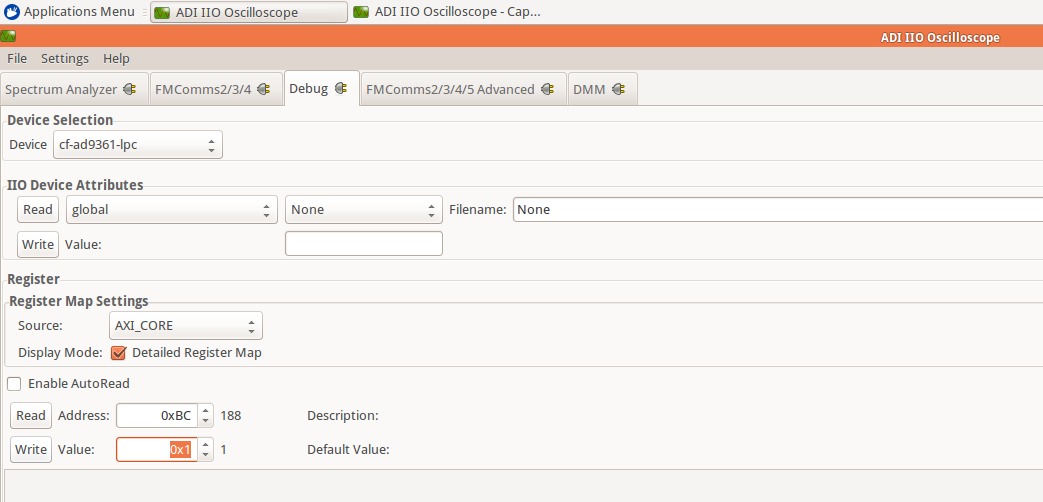
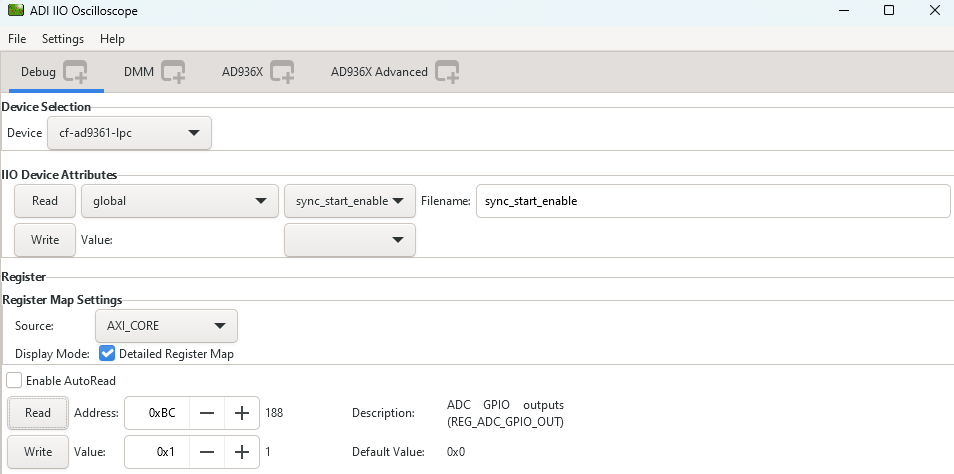
doocs/projects/fmcomms2: TODO notes
Updating the code according to TODO notes from Iulia:
Clarification some commands and update some links.
Updating steps for debug in iio osciloscope.
Updating images in the documentation with the latest version of iio
osciloscope. (v0.18-main)

diff --git a/docs/projects/fmcomms2/fir_filter.rst b/docs/projects/fmcomms2/fir_filter.rst
@@ -7,7 +7,7 @@ Overview
 -------------------------------------------------------------------------------
 
 This wiki page describes how to add a custom processing module into the
-:git-hdl:`FMCOMMS2 <EVAL-AD-FMCOMMS2-EBZ>`'s TX and/or RX data path.
+:git-hdl:`FMCOMMS2 <projects/fmcomms2>`'s TX and/or RX data path.
 
 In this example, the custom modules are going to be some digital FIR filters,
 to decimate and interpolate the incoming and outcoming data stream.
@@ -150,13 +150,11 @@ Adding FIR filters in FMCOMMS2 design and building the HDL
 
 The design is obtain by simply sourcing the base FMCOMMS2 block design.
 
-# TODO: clarify the commands below
-
 .. code-block:: tcl
 
    set project_dir [pwd]
    cd $ad_hdl_dir/projects/fmcomms2/zc706/
-   source system_bd.tcl
+   source system_project.tcl
    cd $project_dir
 
 At this point, FMCOMMS2 reference design's TX data path has the following
@@ -329,12 +327,13 @@ when interpolation is activated and by the axi_ad9361_core when interpolation
 is not active. In the reference design, the data flow is controlled by the
 ad9631_core.
 
-We must connect the upack_core's dma_xfer_in port to VCC so that the UPACK may
-transmit the valid and enable signals from one entity to another.
+..
+   We must connect the upack_core's dma_xfer_in port to VCC so that the UPACK may
+   transmit the valid and enable signals from one entity to another.
 
-.. code-block:: tcl
+   .. code-block:: tcl
 
-   ad_connect util_ad9361_dac_upack/dma_xfer_in VCC
+      ad_connect util_ad9361_dac_upack/dma_xfer_in VCC
 
 At this moment, the Interpolation filters are completely integrated into the
 design and the data path should look like the one in the figure below.
@@ -366,7 +365,7 @@ Connecting the FIR decimation filters on the Rx side
    connect_bd_net [get_bd_pins util_ad9361_adc_fifo/dout_data_2] [get_bd_pins fir_decimator_1/channel_0]
    connect_bd_net [get_bd_pins util_ad9361_adc_fifo/dout_data_3] [get_bd_pins fir_decimator_1/channel_1]
    connect_bd_net [get_bd_pins util_ad9361_adc_fifo/dout_valid_2] [get_bd_pins fir_decimator_1/s_axis_data_tvalid]
-   connect_bd_net [get_bd_pins util_ad9361_dac_pack/fifo_rd_en] [get_bd_pins fir_decimator_1/m_axis_data_tvalid]
+   connect_bd_net [get_bd_pins util_ad9361_adc_pack/fifo_wr_en] [get_bd_pins fir_decimator_1/m_axis_data_tvalid]
    connect_bd_net [get_bd_pins util_ad9361_adc_pack/enable_2 ] [get_bd_pins util_ad9361_adc_fifo/dout_enable_2]
    connect_bd_net [get_bd_pins util_ad9361_adc_pack/enable_3 ] [get_bd_pins util_ad9361_adc_fifo/dout_enable_3]
    connect_bd_net [get_bd_pins pack1_slice_0/Din] [get_bd_pins fir_decimator_1/m_axis_data_tdata]
@@ -405,6 +404,11 @@ Base system functionality
 For simply testing the FMCOMMS2 with filter design, we loop-back the data from
 TX to RX for each channel with a SMA to SMA cable.
 
+.. image:: fmcomms2_txrx_loopback.jpg
+   :width: 1000
+   :align: center
+   :alt: FMCOMMS2_TXRX_LOOPBACK
+
 When first booting up the design, none of the filters will be active.
 For the beginning make sure you have the same **LO frequency for RX and TX**,
 as in the picture below.
@@ -416,8 +420,9 @@ the FIR interpolation filters. On the decimation side, data will always pass
 through decimation filters.
 
 Below are the settings for FMCOMMS2 and the data plot in FFT and Time Domain
-for the "sinewave_0.6.mat". As a functionality example, only one of the two
-channels will be enabled.
+for the "sinewave_0.6.mat". The file "sinewave_0.6.mat" can be found under
+the installation folder, in **lib\osc\waveforms**. As a functionality example,
+only one of the two channels will be enabled.
 
 **FFT Domain**
 
@@ -468,15 +473,11 @@ Activating Filters
 Interpolation filter
 ~~~~~~~~~~~~~~~~~~~~~~~~~~~~~~~~~~~~~~~~~~~~~~~~~~~~~~~~~~~~~~~~~~~~~~~~~~~~~~~
 
-# TODO: update the following paragraph and the link
-
 In the `Connecting the FIR interpolation filters on the Tx side`_ section
 above, we added a GPIO control. The ad9361_core GPIO control register can be
-found in the register map at the address **0xBC** :dokuwiki:`axi_ad9361_core  </resources/fpga/docs/axi_ad9361>`
+found in the register map at the address **0xBC** `AXI AD9361`_.
 
 To activate the interpolation filter, one must go to the Debug mode:
-
-# TODO: make sure these steps are up-to-date
 
 - At section Device selection chose **"cf-ad9361-dds-core-lpc"**
 - In the Register Map settings, select the source to be AXI_CORE
@@ -511,10 +512,8 @@ At this point, again all filters are disabled.
 Similar to interpolation, to activate the decimation we must go to the Debug,
 but this time select the "cf-ad9361-lpc".
 
-# TODO: update the paragraph below
-
 Select the "Register Map Settings" source to be "AXI_CORE" and at the same
-address **0xBC** :dokuwiki:`axi_ad9361_core  </resources/fpga/docs/axi_ad9361>`
+address **0xBC** `AXI AD9361`_.
 this time being the ADC side GPIO, write 0x1, as in the example below:
 
 .. image:: activate_rx_interpolation_filters_write.png
@@ -549,14 +548,15 @@ All filters active characteristic
 
 **Time Domain characteristic**
 
-# TODO: missing image from Time Domain characteristic?
+.. image:: fmcomms2_fir_tx_rx_active_waveform.png
+   :width: 1000
+   :align: center
+   :alt: FMCOMMS_FIR_TX_RX_ACTIVE_WAVEFORM
 
 Download
 -------------------------------------------------------------------------------
 
-# TODO: update this link
-
-- `boot.zip <resources/fpga/docs/hdl/boot.zip>`__
+- :dokuwiki:`boot.zip <_media/resources/fpga/docs/hdl/boot.zip>`
 - Sources from older examples can be found under the tag
   `eg_fmcomms2_fir_filter`_ using Vivado 16.2 and 16.4 versions, and
   **are not supported by us anymore**.
@@ -573,3 +573,120 @@ References
 
 .. _eg_fmcomms2_fir_filter: https://github.com/analogdevicesinc/hdl/releases/tag/eg_fmcomms2_fir_filter
 .. _MATLAB: https://www.mathworks.com/products/matlab.html
+.. _AXI AD9361: https://analogdevicesinc.github.io/hdl/library/axi_ad9361/index.html#register-map
+
+.. code-block:: tcl
+
+    # delete reference design connections
+    delete_bd_objs [get_bd_nets axi_ad9361_dac_fifo_din_valid_0]
+    delete_bd_objs [get_bd_nets axi_ad9361_dac_fifo_din_enable_*]
+    delete_bd_objs [get_bd_nets util_ad9361_dac_upack_fifo_rd_data_*]
+    delete_bd_objs [get_bd_nets util_ad9361_dac_upack_fifo_rd_underflow]
+    delete_bd_objs [get_bd_nets util_ad9361_dac_upack_fifo_rd_valid]
+
+    delete_bd_objs [get_bd_nets util_ad9361_adc_fifo_dout_valid_0]
+    delete_bd_objs [get_bd_nets util_ad9361_adc_fifo_dout_enable_*]
+    delete_bd_objs [get_bd_nets util_ad9361_adc_fifo_dout_data_*]
+
+    set fir_interpolator_0 [ create_bd_cell -type ip -vlnv analog.com:user:util_fir_int:1.0 fir_interpolator_0 ]
+    set fir_interpolator_1 [ create_bd_cell -type ip -vlnv analog.com:user:util_fir_int:1.0 fir_interpolator_1 ]
+
+    set interp_slice [ create_bd_cell -type ip -vlnv xilinx.com:ip:xlslice:1.0 interp_slice ]
+
+    set fir_decimator_0 [ create_bd_cell -type ip -vlnv analog.com:user:util_fir_dec:1.0 fir_decimator_0 ]
+    set fir_decimator_1 [ create_bd_cell -type ip -vlnv analog.com:user:util_fir_dec:1.0 fir_decimator_1 ]
+
+    set decim_slice [ create_bd_cell -type ip -vlnv xilinx.com:ip:xlslice:1.0 decim_slice ]
+
+    set concat_0 [ create_bd_cell -type ip -vlnv xilinx.com:ip:xlconcat:2.1 concat_0 ]
+    set_property -dict [list CONFIG.IN1_WIDTH.VALUE_SRC USER CONFIG.IN0_WIDTH.VALUE_SRC USER] $concat_0
+    set_property -dict [list CONFIG.IN0_WIDTH {16} CONFIG.IN1_WIDTH {16}] $concat_0
+
+    set concat_1 [ create_bd_cell -type ip -vlnv xilinx.com:ip:xlconcat:2.1 concat_1 ]
+    set_property -dict [list CONFIG.IN1_WIDTH.VALUE_SRC USER CONFIG.IN0_WIDTH.VALUE_SRC USER] $concat_1
+    set_property -dict [list CONFIG.IN0_WIDTH {16} CONFIG.IN1_WIDTH {16}] $concat_1
+
+    set pack0_slice_0 [ create_bd_cell -type ip -vlnv xilinx.com:ip:xlslice:1.0 pack0_slice_0 ]
+    set_property -dict [list CONFIG.DIN_FROM {15}] $pack0_slice_0
+    set_property -dict [list CONFIG.DIN_TO {0}] $pack0_slice_0
+    set_property -dict [list CONFIG.DOUT_WIDTH {16}] $pack0_slice_0
+
+    set pack0_slice_1 [ create_bd_cell -type ip -vlnv xilinx.com:ip:xlslice:1.0 pack0_slice_1 ]
+    set_property -dict [list CONFIG.DIN_FROM {31}] $pack0_slice_1
+    set_property -dict [list CONFIG.DIN_TO {16}] $pack0_slice_1
+    set_property -dict [list CONFIG.DOUT_WIDTH {16}] $pack0_slice_1
+
+    set pack1_slice_0 [ create_bd_cell -type ip -vlnv xilinx.com:ip:xlslice:1.0 pack1_slice_0 ]
+    set_property -dict [list CONFIG.DIN_FROM {15}] $pack1_slice_0
+    set_property -dict [list CONFIG.DIN_TO {0}] $pack1_slice_0
+    set_property -dict [list CONFIG.DOUT_WIDTH {16}] $pack1_slice_0
+
+    set pack1_slice_1 [ create_bd_cell -type ip -vlnv xilinx.com:ip:xlslice:1.0 pack1_slice_1 ]
+    set_property -dict [list CONFIG.DIN_FROM {31}] $pack1_slice_1
+    set_property -dict [list CONFIG.DIN_TO {16}] $pack1_slice_1
+    set_property -dict [list CONFIG.DOUT_WIDTH {16}] $pack1_slice_1
+
+    # fir interpolator 0
+    connect_bd_net [get_bd_pins util_ad9361_divclk/clk_out] [get_bd_pins fir_interpolator_0/aclk]
+    connect_bd_net [get_bd_pins util_ad9361_dac_upack/enable_0] [get_bd_pins axi_ad9361_dac_fifo/din_enable_0]
+    connect_bd_net [get_bd_pins util_ad9361_dac_upack/enable_1] [get_bd_pins axi_ad9361_dac_fifo/din_enable_1]
+    connect_bd_net [get_bd_pins util_ad9361_dac_upack/fifo_rd_en] [get_bd_pins fir_interpolator_0/s_axis_data_tready]
+    connect_bd_net [get_bd_pins util_ad9361_dac_upack/fifo_rd_en] [get_bd_pins fir_interpolator_0/s_axis_data_tvalid]
+    connect_bd_net [get_bd_pins axi_ad9361_dac_fifo/din_data_0] [get_bd_pins fir_interpolator_0/channel_0]
+    connect_bd_net [get_bd_pins axi_ad9361_dac_fifo/din_data_1] [get_bd_pins fir_interpolator_0/channel_1]
+    connect_bd_net [get_bd_pins axi_ad9361_dac_fifo/din_valid_0] [get_bd_pins fir_interpolator_0/dac_read]
+
+
+    connect_bd_net [get_bd_pins concat_0/In0 ] [get_bd_pins util_ad9361_dac_upack/fifo_rd_data_0]
+    connect_bd_net [get_bd_pins concat_0/In1 ] [get_bd_pins util_ad9361_dac_upack/fifo_rd_data_1]
+    connect_bd_net [get_bd_pins concat_0/dout ] [get_bd_pins fir_interpolator_0/s_axis_data_tdata]
+
+    # fir interpolator 1
+    connect_bd_net [get_bd_pins util_ad9361_divclk/clk_out] [get_bd_pins fir_interpolator_1/aclk]
+    connect_bd_net [get_bd_pins util_ad9361_dac_upack/enable_2] [get_bd_pins axi_ad9361_dac_fifo/din_enable_2]
+    connect_bd_net [get_bd_pins util_ad9361_dac_upack/enable_3] [get_bd_pins axi_ad9361_dac_fifo/din_enable_3]
+    connect_bd_net [get_bd_pins util_ad9361_dac_upack/fifo_rd_en] [get_bd_pins fir_interpolator_1/s_axis_data_tvalid]
+    connect_bd_net [get_bd_pins axi_ad9361_dac_fifo/din_data_2] [get_bd_pins fir_interpolator_1/channel_0]
+    connect_bd_net [get_bd_pins axi_ad9361_dac_fifo/din_data_3] [get_bd_pins fir_interpolator_0/channel_1]
+    connect_bd_net [get_bd_pins axi_ad9361_dac_fifo/din_valid_2] [get_bd_pins fir_interpolator_1/dac_read]
+
+
+    connect_bd_net [get_bd_pins concat_1/In0 ] [get_bd_pins util_ad9361_dac_upack/fifo_rd_data_2]
+    connect_bd_net [get_bd_pins concat_1/In1 ] [get_bd_pins util_ad9361_dac_upack/fifo_rd_data_3]
+    connect_bd_net [get_bd_pins concat_1/dout ] [get_bd_pins fir_interpolator_1/s_axis_data_tdata]
+
+    # gpio controlled
+    connect_bd_net [get_bd_pins axi_ad9361/up_dac_gpio_out] [get_bd_pins interp_slice/Din]
+    connect_bd_net [get_bd_pins fir_interpolator_0/interpolate] [get_bd_pins interp_slice/Dout]
+    connect_bd_net [get_bd_pins fir_interpolator_1/interpolate] [get_bd_pins interp_slice/Dout]
+
+
+    # fir decimator 0
+    connect_bd_net [get_bd_pins util_ad9361_divclk/clk_out] [get_bd_pins fir_decimator_0/aclk]
+    connect_bd_net [get_bd_pins util_ad9361_adc_fifo/dout_data_0] [get_bd_pins fir_decimator_0/channel_0]
+    connect_bd_net [get_bd_pins util_ad9361_adc_fifo/dout_data_1] [get_bd_pins fir_decimator_0/channel_1]
+    connect_bd_net [get_bd_pins util_ad9361_adc_fifo/dout_valid_0] [get_bd_pins fir_decimator_0/s_axis_data_tvalid]
+    connect_bd_net [get_bd_pins util_ad9361_adc_pack/enable_0 ] [get_bd_pins util_ad9361_adc_fifo/dout_enable_0]
+    connect_bd_net [get_bd_pins util_ad9361_adc_pack/enable_1 ] [get_bd_pins util_ad9361_adc_fifo/dout_enable_1]
+    connect_bd_net [get_bd_pins pack0_slice_0/Din] [get_bd_pins fir_decimator_0/m_axis_data_tdata]
+    connect_bd_net [get_bd_pins pack0_slice_1/Din] [get_bd_pins fir_decimator_0/m_axis_data_tdata]
+    connect_bd_net [get_bd_pins util_ad9361_adc_pack/fifo_wr_data_0] [get_bd_pins pack0_slice_0/Dout]
+    connect_bd_net [get_bd_pins util_ad9361_adc_pack/fifo_wr_data_1] [get_bd_pins pack0_slice_1/Dout]
+
+    # fir decimator 1
+    connect_bd_net [get_bd_pins util_ad9361_divclk/clk_out] [get_bd_pins fir_decimator_1/aclk]
+    connect_bd_net [get_bd_pins util_ad9361_adc_fifo/dout_data_2] [get_bd_pins fir_decimator_1/channel_0]
+    connect_bd_net [get_bd_pins util_ad9361_adc_fifo/dout_data_3] [get_bd_pins fir_decimator_1/channel_1]
+    connect_bd_net [get_bd_pins util_ad9361_adc_fifo/dout_valid_2] [get_bd_pins fir_decimator_1/s_axis_data_tvalid]
+    connect_bd_net [get_bd_pins util_ad9361_adc_pack/fifo_wr_en] [get_bd_pins fir_decimator_1/m_axis_data_tvalid]
+    connect_bd_net [get_bd_pins util_ad9361_adc_pack/enable_2 ] [get_bd_pins util_ad9361_adc_fifo/dout_enable_2]
+    connect_bd_net [get_bd_pins util_ad9361_adc_pack/enable_3 ] [get_bd_pins util_ad9361_adc_fifo/dout_enable_3]
+    connect_bd_net [get_bd_pins pack1_slice_0/Din] [get_bd_pins fir_decimator_1/m_axis_data_tdata]
+    connect_bd_net [get_bd_pins pack1_slice_1/Din] [get_bd_pins fir_decimator_1/m_axis_data_tdata]
+    connect_bd_net [get_bd_pins util_ad9361_adc_pack/fifo_wr_data_2] [get_bd_pins pack1_slice_0/Dout]
+    connect_bd_net [get_bd_pins util_ad9361_adc_pack/fifo_wr_data_3] [get_bd_pins pack1_slice_1/Dout]
+
+    #gpio controlled
+    connect_bd_net [get_bd_pins axi_ad9361/up_dac_gpio_out] [get_bd_pins decim_slice/Din]
+    connect_bd_net [get_bd_pins fir_decimator_0/decimate] [get_bd_pins decim_slice/Dout]
+    connect_bd_net [get_bd_pins fir_decimator_1/decimate] [get_bd_pins decim_slice/Din]
